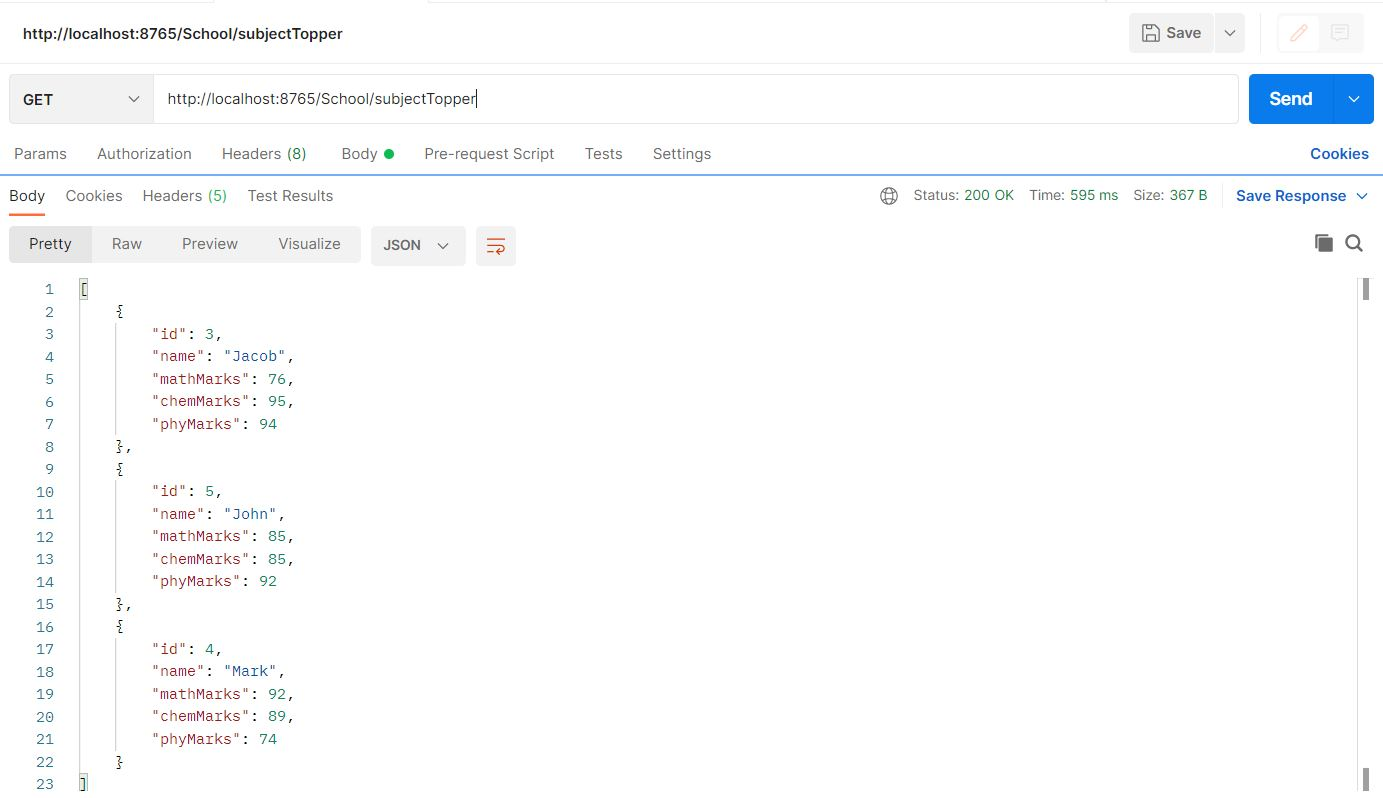
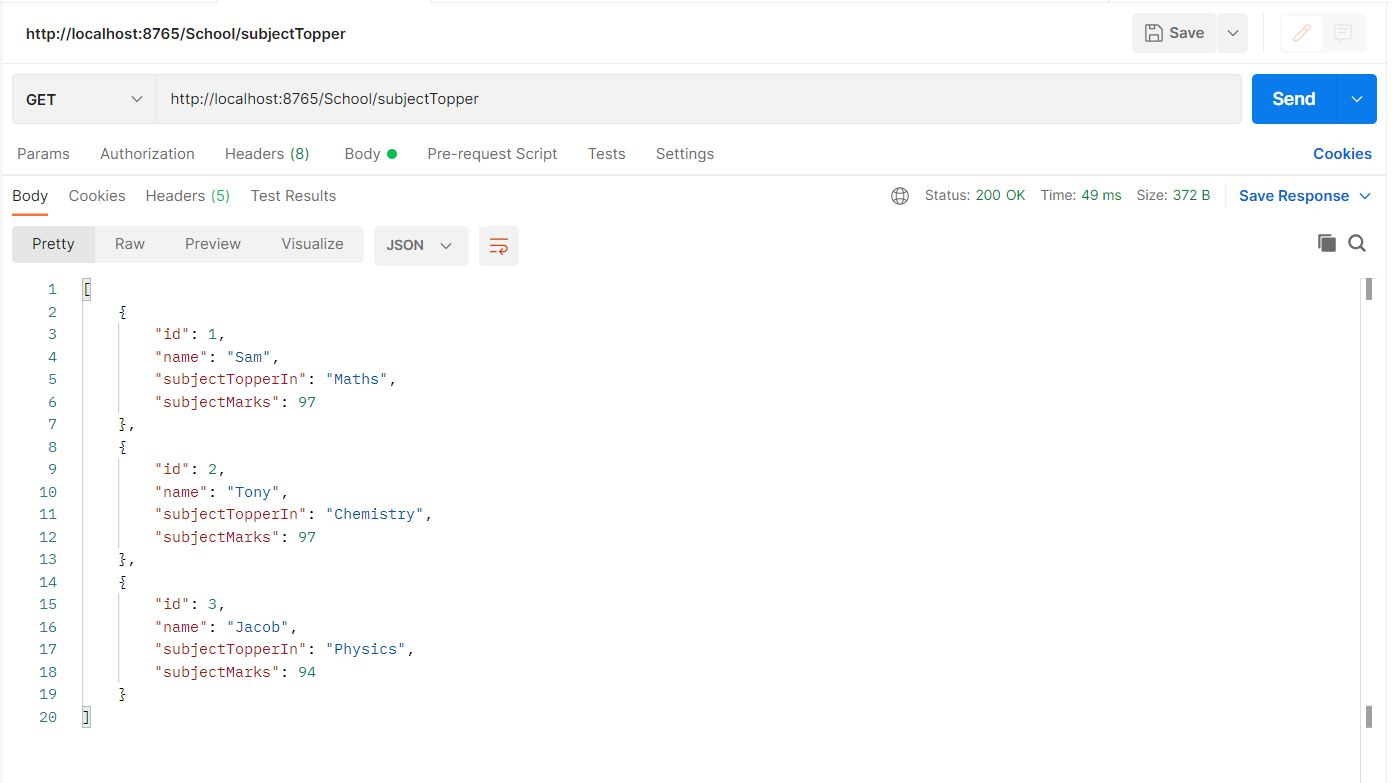
3rd Commit

diff --git a/SchoolGradingSystemStream/src/main/java/com/example/service/SchoolServiceImpl.java b/SchoolGradingSystemStream/src/main/java/com/example/service/SchoolServiceImpl.java
@@ -11,6 +11,7 @@ import org.springframework.stereotype.Service;
 
 import com.example.dao.SchoolDAO;
 import com.example.model.Student;
+import com.example.model.StudentSubjectTopper;
 
 @Transactional
 @Service
@@ -18,19 +19,25 @@ public class SchoolServiceImpl implements SchoolService {
 	
 	@Autowired
 	private SchoolDAO schoolDao;
+	
 
 	@Override
 	public List<Student> getTopThreeStudents() {
 		
 		List <Student> list = schoolDao.getAllStudentDetails();
-		List <Student> result = list.stream().sorted((x,y) -> (y.getChemMarks() + y.getMathMarks() + y.getPhyMarks()) - (x.getChemMarks() + x.getMathMarks() + x.getPhyMarks()))
+		List <Student> result = list.stream().sorted((x,y) -> y.getTotalMarks() - x.getTotalMarks())
 									.limit(3).toList();
+		
+		result.get(0).setRank(1);
+		result.get(1).setRank(2);
+		result.get(2).setRank(3);
 		
 		return result;
 	}
 
+
 	@Override
-	public Student subjectTopper(String subject) throws Exception {
+	public StudentSubjectTopper subjectTopper(String subject) throws Exception {
 		
 		if(!(subject.equalsIgnoreCase("Physics") || subject.equalsIgnoreCase("Chemistry") || subject.equalsIgnoreCase("Maths")))
 			throw new Exception("SchoolService.INVALID_SUBJECT");
@@ -40,6 +47,8 @@ public class SchoolServiceImpl implements SchoolService {
 		Stream <Student> str = list.stream();
 		Student s = null;
 		
+		StudentSubjectTopper ss = new StudentSubjectTopper();
+		
 		if(subject.equalsIgnoreCase("Physics"))
 			s = str.max((x,y) -> x.getPhyMarks()-y.getPhyMarks()).get();
 		else if(subject.equalsIgnoreCase("Chemistry"))
@@ -47,7 +56,18 @@ public class SchoolServiceImpl implements SchoolService {
 		else
 			s = str.max((x,y) -> x.getMathMarks()-y.getMathMarks()).get();
 		
-		return s;
+		ss.setId(s.getId());
+		ss.setName(s.getName());
+		ss.setSubjectTopperIn(subject);
+		
+		if(subject.equalsIgnoreCase("Physics"))
+			ss.setSubjectMarks(s.getPhyMarks());
+		else if(subject.equalsIgnoreCase("Chemistry"))
+			ss.setSubjectMarks(s.getChemMarks());
+		else
+			ss.setSubjectMarks(s.getMathMarks());
+		
+		return ss;
 	}
 
 }

diff --git a/SchoolGradingSystemStream/src/main/java/com/example/api/SchoolController.java b/SchoolGradingSystemStream/src/main/java/com/example/api/SchoolController.java
@@ -1,6 +1,6 @@
 package com.example.api;
 
-import java.util.ArrayList;
+import java.util.Arrays;
 import java.util.List;
 
 import org.springframework.beans.factory.annotation.Autowired;
@@ -8,12 +8,12 @@ import org.springframework.core.env.Environment;
 import org.springframework.http.HttpStatus;
 import org.springframework.http.ResponseEntity;
 import org.springframework.web.bind.annotation.GetMapping;
-import org.springframework.web.bind.annotation.PathVariable;
 import org.springframework.web.bind.annotation.RequestMapping;
 import org.springframework.web.bind.annotation.RestController;
 import org.springframework.web.server.ResponseStatusException;
 
 import com.example.model.Student;
+import com.example.model.StudentSubjectTopper;
 import com.example.service.SchoolService;
 
 @RestController
@@ -34,20 +34,17 @@ public class SchoolController {
 	}
 	
 	@GetMapping(value = "/subjectTopper")
-	public ResponseEntity<List<Student>> getSubjectTopper() throws Exception
+	public ResponseEntity<List<StudentSubjectTopper>> getSubjectTopper() throws Exception
 	{
 		try 
 		{
-			Student se = schoolService.subjectTopper("Maths");
-			Student sc = schoolService.subjectTopper("Chemistry");
-			Student sp = schoolService.subjectTopper("Physics");
+			StudentSubjectTopper se = schoolService.subjectTopper("Maths");
+			StudentSubjectTopper sc = schoolService.subjectTopper("Chemistry");
+			StudentSubjectTopper sp = schoolService.subjectTopper("Physics");
 			
-			List <Student> result = new ArrayList<>();
-			result.add(se);
-			result.add(sc);
-			result.add(sp);
+			List <StudentSubjectTopper> result = Arrays.asList(se,sc,sp);
 			
-			return new ResponseEntity<List<Student>>(result,HttpStatus.OK);
+			return new ResponseEntity<List<StudentSubjectTopper>>(result,HttpStatus.OK);
 		} catch (Exception e) {
 			throw new ResponseStatusException(HttpStatus.BAD_REQUEST, environment.getProperty(e.getMessage()));
 		}

diff --git a/SchoolGradingSystemStream/src/main/java/com/example/model/Student.java b/SchoolGradingSystemStream/src/main/java/com/example/model/Student.java
@@ -1,13 +1,19 @@
 package com.example.model;
 
+import com.fasterxml.jackson.annotation.JsonIgnore;
+
 public class Student {
 	
+	private int rank;
 	private int id;
 	private String name;
+	@JsonIgnore
 	private int mathMarks;
+	@JsonIgnore
 	private int chemMarks;
+	@JsonIgnore
 	private int phyMarks;
-	
+	private int totalMarks;
 	
 	public int getId() {
 		return id;
@@ -39,7 +45,18 @@ public class Student {
 	public void setPhyMarks(int phyMarks) {
 		this.phyMarks = phyMarks;
 	}
-	
+	public int getRank() {
+		return rank;
+	}
+	public void setRank(int rank) {
+		this.rank = rank;
+	}
+	public int getTotalMarks() {
+		return totalMarks;
+	}
+	public void setTotalMarks() {
+		this.totalMarks = this.mathMarks + this.chemMarks + this.phyMarks;
+	}
 	
 
 }

diff --git a/SchoolGradingSystemStream/src/main/java/com/example/model/StudentSubjectTopper.java b/SchoolGradingSystemStream/src/main/java/com/example/model/StudentSubjectTopper.java
@@ -1,0 +1,35 @@
+package com.example.model;
+
+public class StudentSubjectTopper {
+	
+	private int id;
+	private String name;
+	private String subjectTopperIn;
+	private int subjectMarks;
+	
+	public int getId() {
+		return id;
+	}
+	public void setId(int id) {
+		this.id = id;
+	}
+	public String getName() {
+		return name;
+	}
+	public void setName(String name) {
+		this.name = name;
+	}
+	public String getSubjectTopperIn() {
+		return subjectTopperIn;
+	}
+	public void setSubjectTopperIn(String subjectTopperIn) {
+		this.subjectTopperIn = subjectTopperIn;
+	}
+	public int getSubjectMarks() {
+		return subjectMarks;
+	}
+	public void setSubjectMarks(int subjectMarks) {
+		this.subjectMarks = subjectMarks;
+	}
+
+}

diff --git a/SchoolGradingSystemStream/src/main/java/com/example/service/SchoolService.java b/SchoolGradingSystemStream/src/main/java/com/example/service/SchoolService.java
@@ -3,10 +3,11 @@ package com.example.service;
 import java.util.List;
 
 import com.example.model.Student;
+import com.example.model.StudentSubjectTopper;
 
 public interface SchoolService {
 	
 	public List<Student> getTopThreeStudents();
-	public Student subjectTopper(String subject) throws Exception;
+	public StudentSubjectTopper subjectTopper(String subject) throws Exception;
 
 }

diff --git a/SchoolGradingSystemStream/src/main/java/com/example/dao/SchoolDAOImpl.java b/SchoolGradingSystemStream/src/main/java/com/example/dao/SchoolDAOImpl.java
@@ -34,6 +34,7 @@ public class SchoolDAOImpl implements SchoolDAO {
 			s.setMathMarks(se.getMathMarks());
 			s.setChemMarks(se.getChemMarks());
 			s.setPhyMarks(se.getPhyMarks());
+			s.setTotalMarks();
 			list.add(s);
 		}
 		
